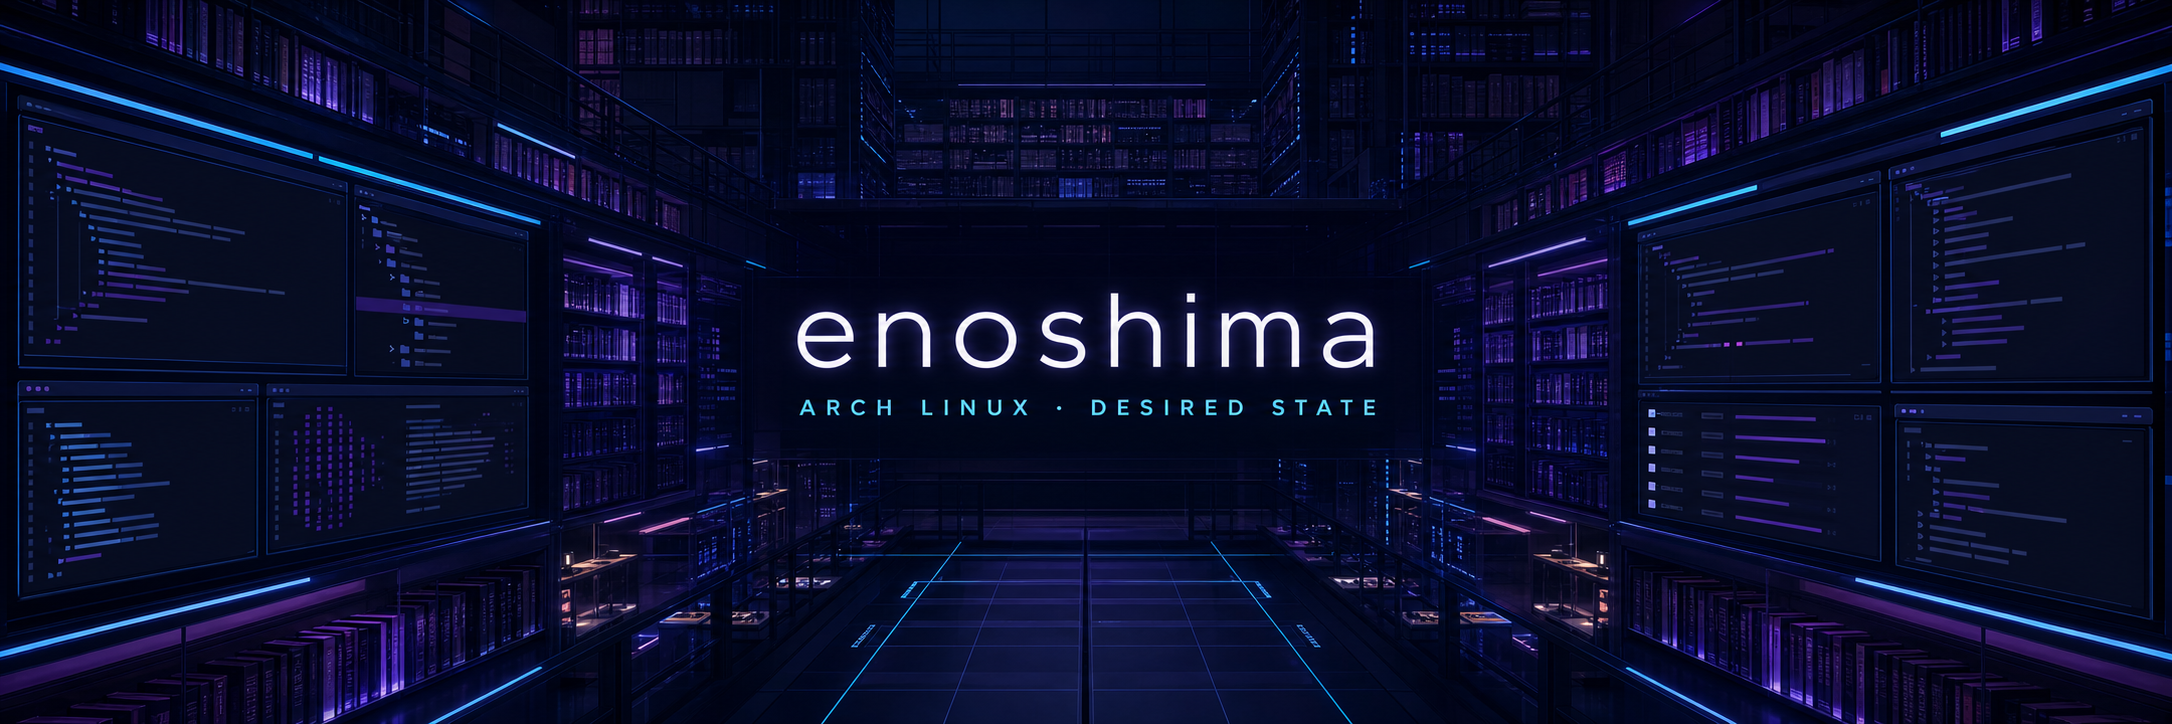
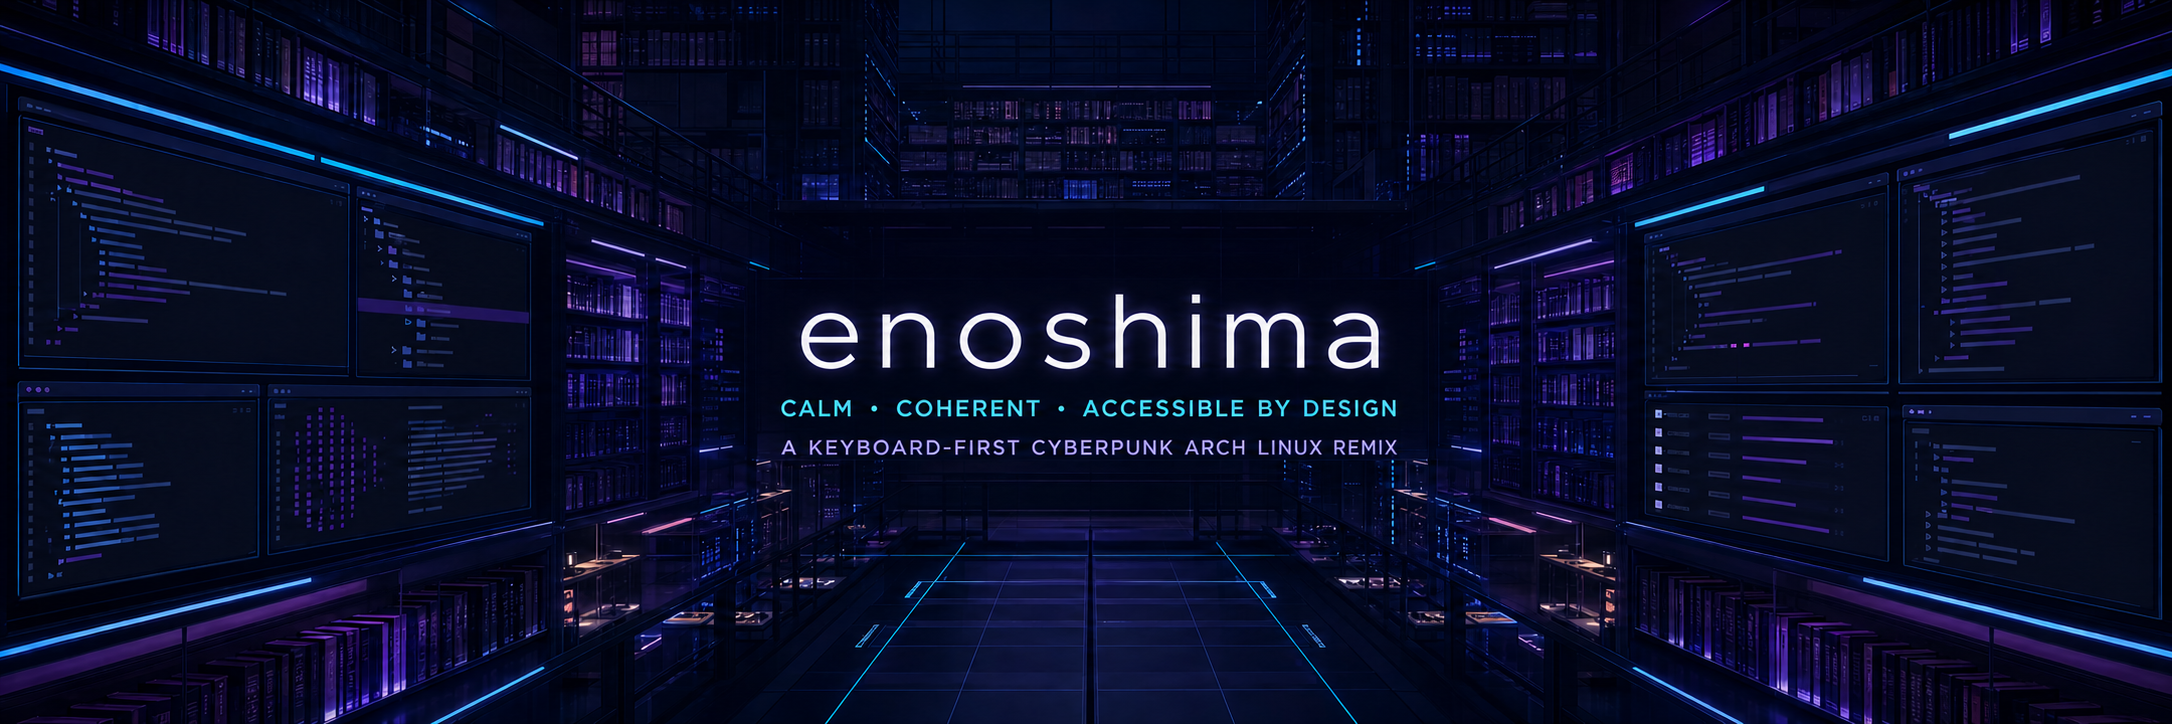
feat(readme): emphasize desktop experience

diff --git a/README.md b/README.md
@@ -1,4 +1,4 @@
-![Enoshima Arch Linux desired-state repository in a neon library workstation](docs/assets/branding/enoshima-readme-header.png)
+![Enoshima, a calm, coherent, accessible, keyboard-first Cyberpunk Arch Linux remix](docs/assets/branding/enoshima-readme-header.png)
 
 # enoshima
 